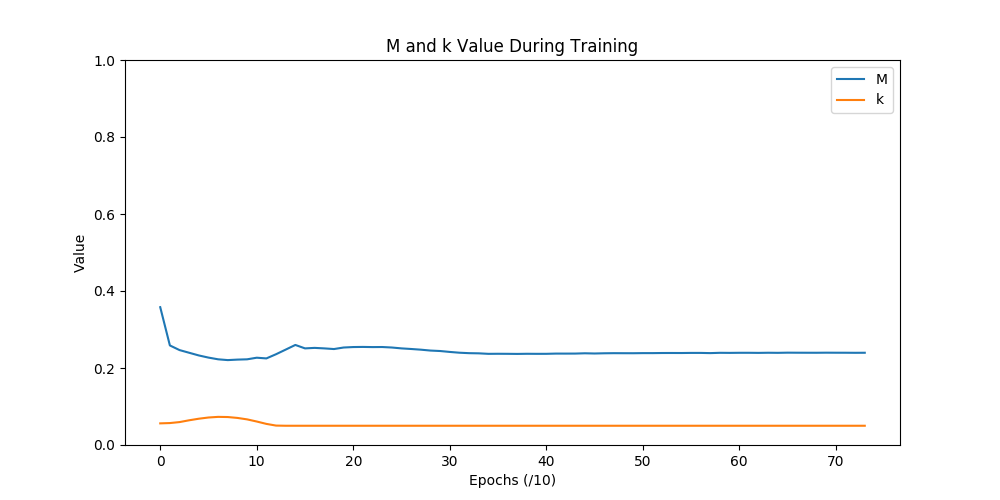
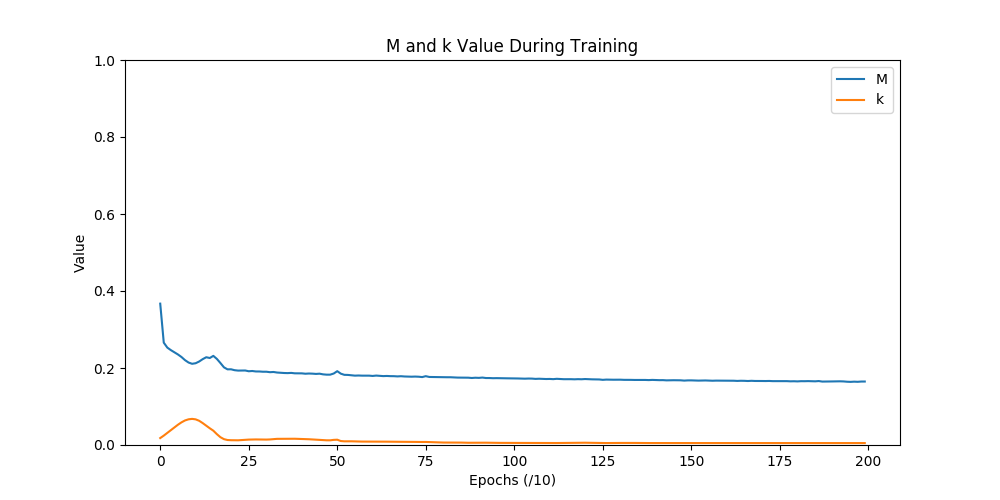
Fin exp ABEGAN

diff --git a/W5.md b/W5.md
@@ -39,13 +39,17 @@ Asymètrique BEGAN
 
 __Résultats__ :
   - BEGAN (gt-2): 
-		Time=
+		Time=50m
 		
 __Conclusion__ :
-  - :
+  - Forcer k à vouloir toujours être supérieur à 0 ne semble pas être une bonne idée (cf image k standard et k limité), test plus long nécessaire .
+  
+![W5_began K_standard](W5_init_abegan/k_standard.png "k standard")
+![W5_began K_limite](W5_init_abegan/k_limite.png "k limité")
   
 ##### Test ReLU en 32x32 batchsize=32 epochs=1000 decay0.9_evry_Mstall  lr=0.0001 gamma=0.5
 Remplacement des non-linéarité ELU par ReLU. ReLU est plus standard alors si ELU n'a pas d'effet particulier il vaudra mieux utiliser le standard.
+[ELU ref](https://arxiv.org/pdf/1511.07289.pdf)
 
 __Résultats__ :
   - BEGAN (gt-2): 
